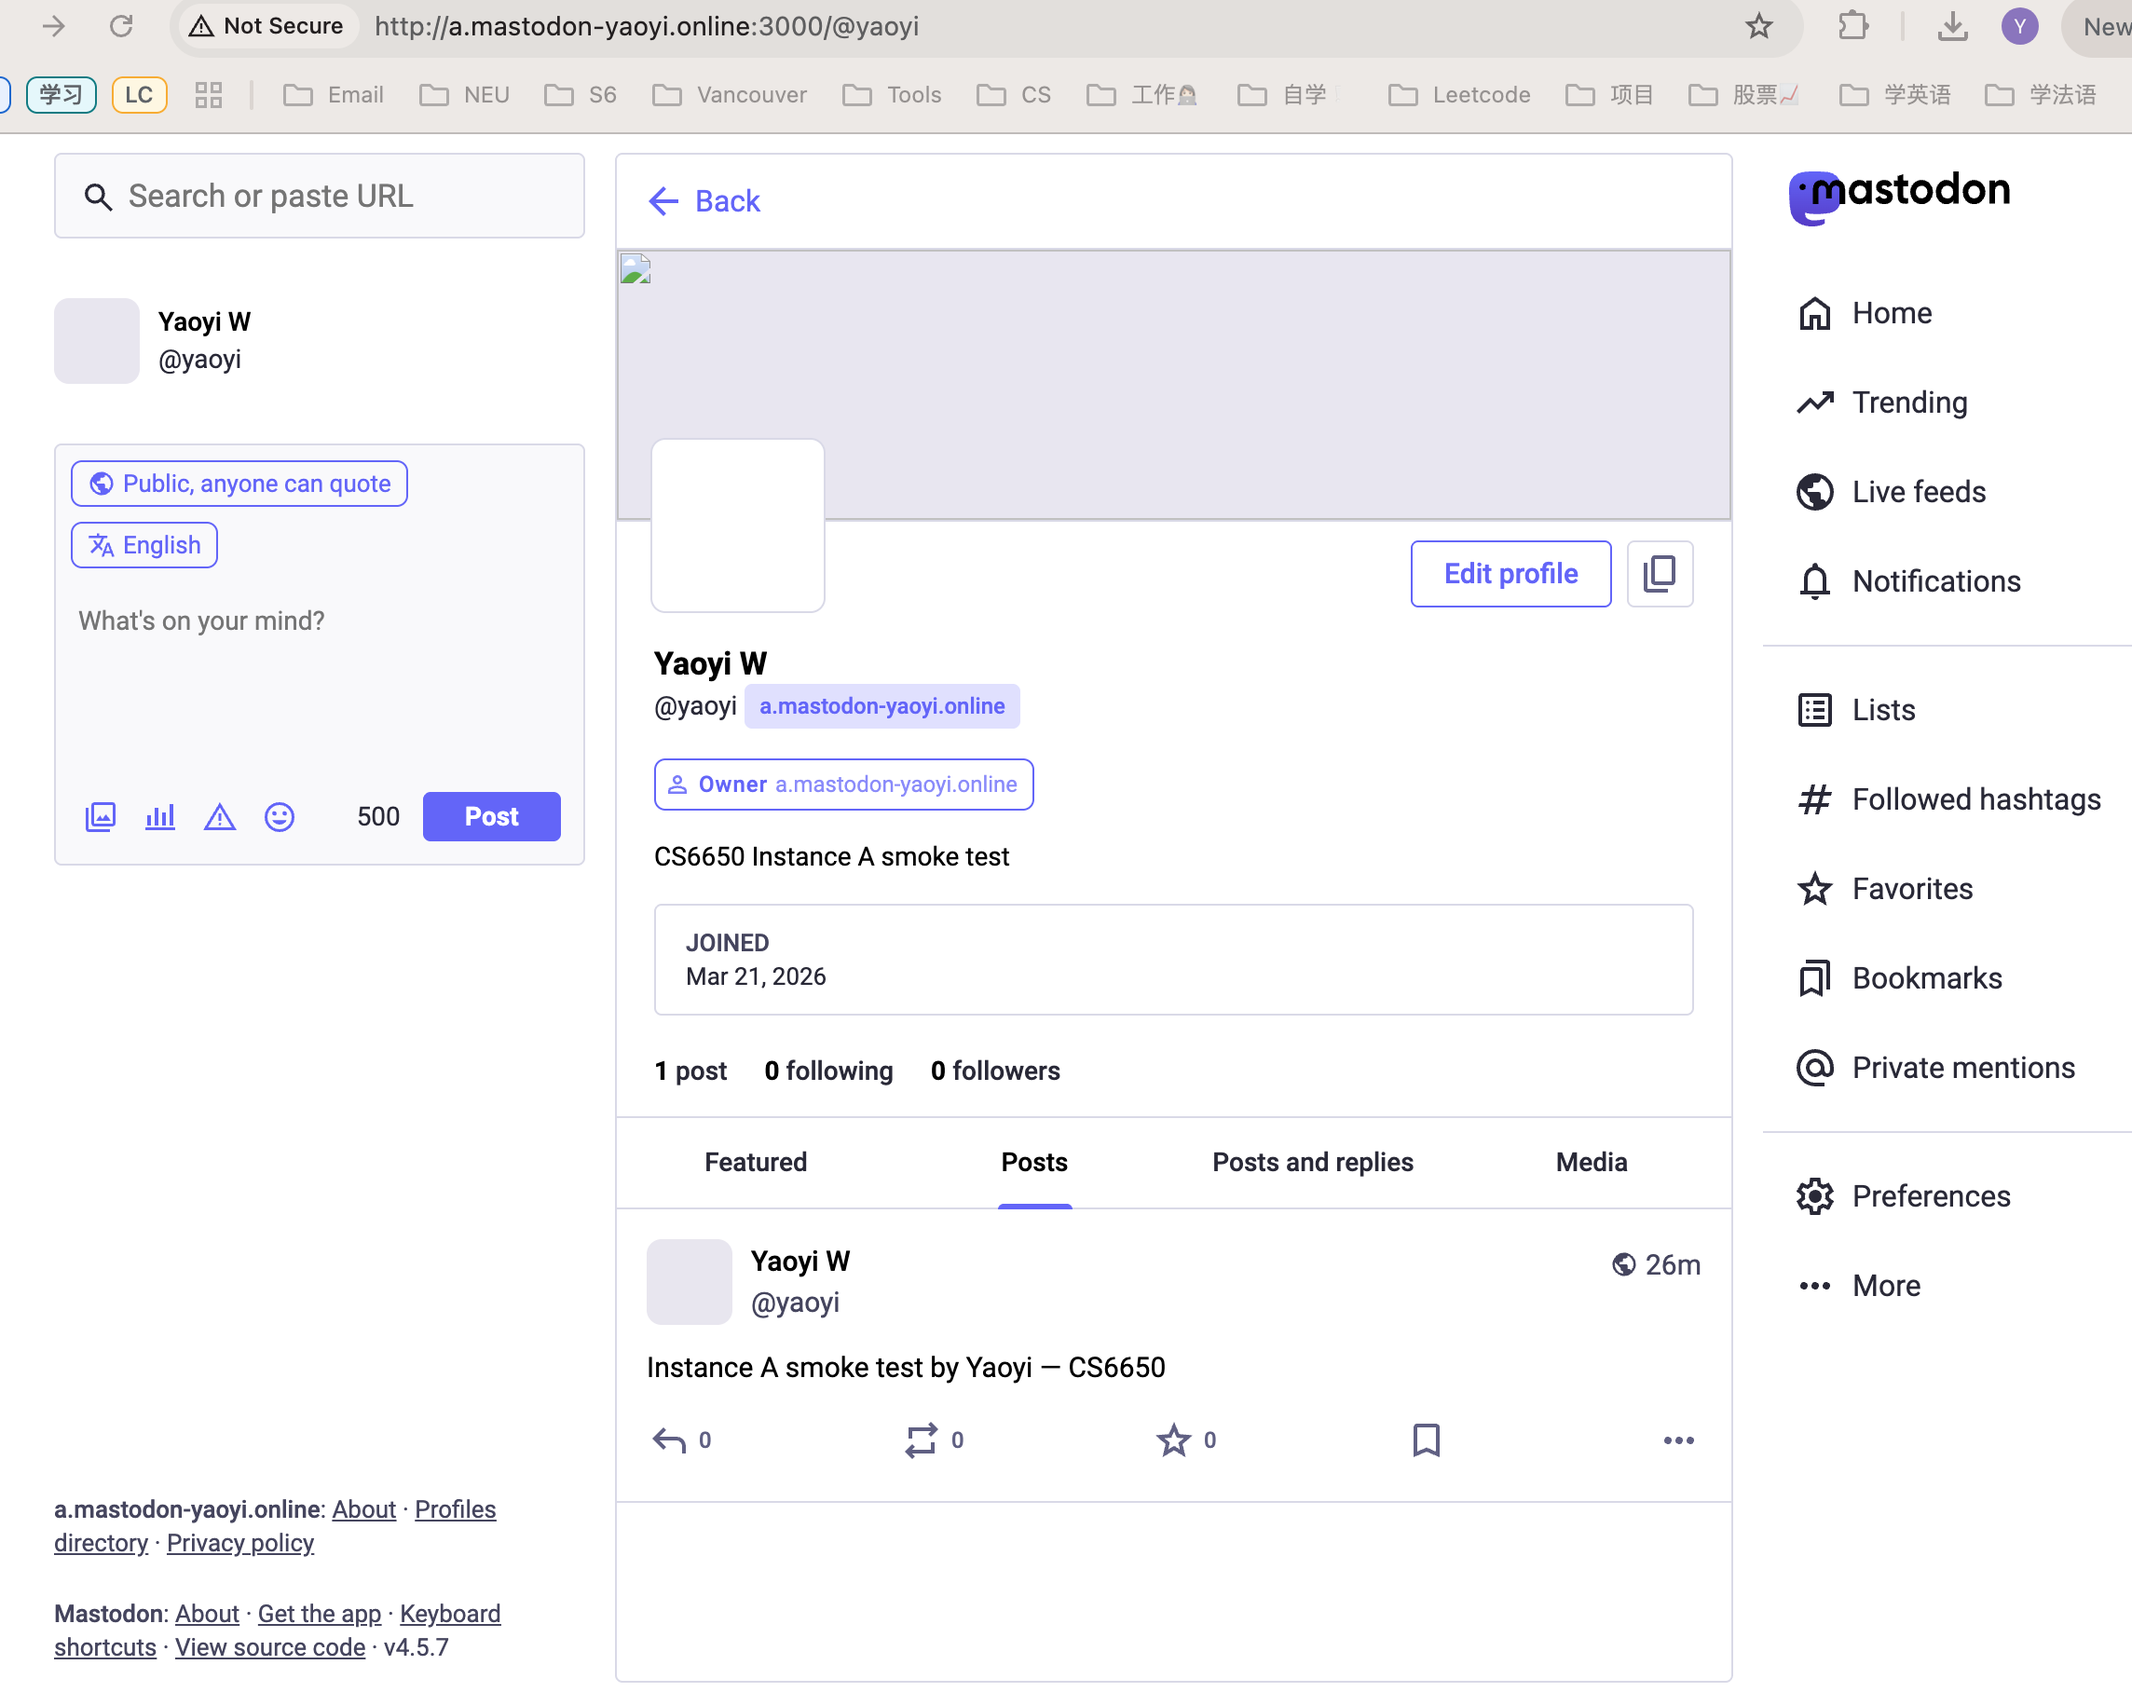
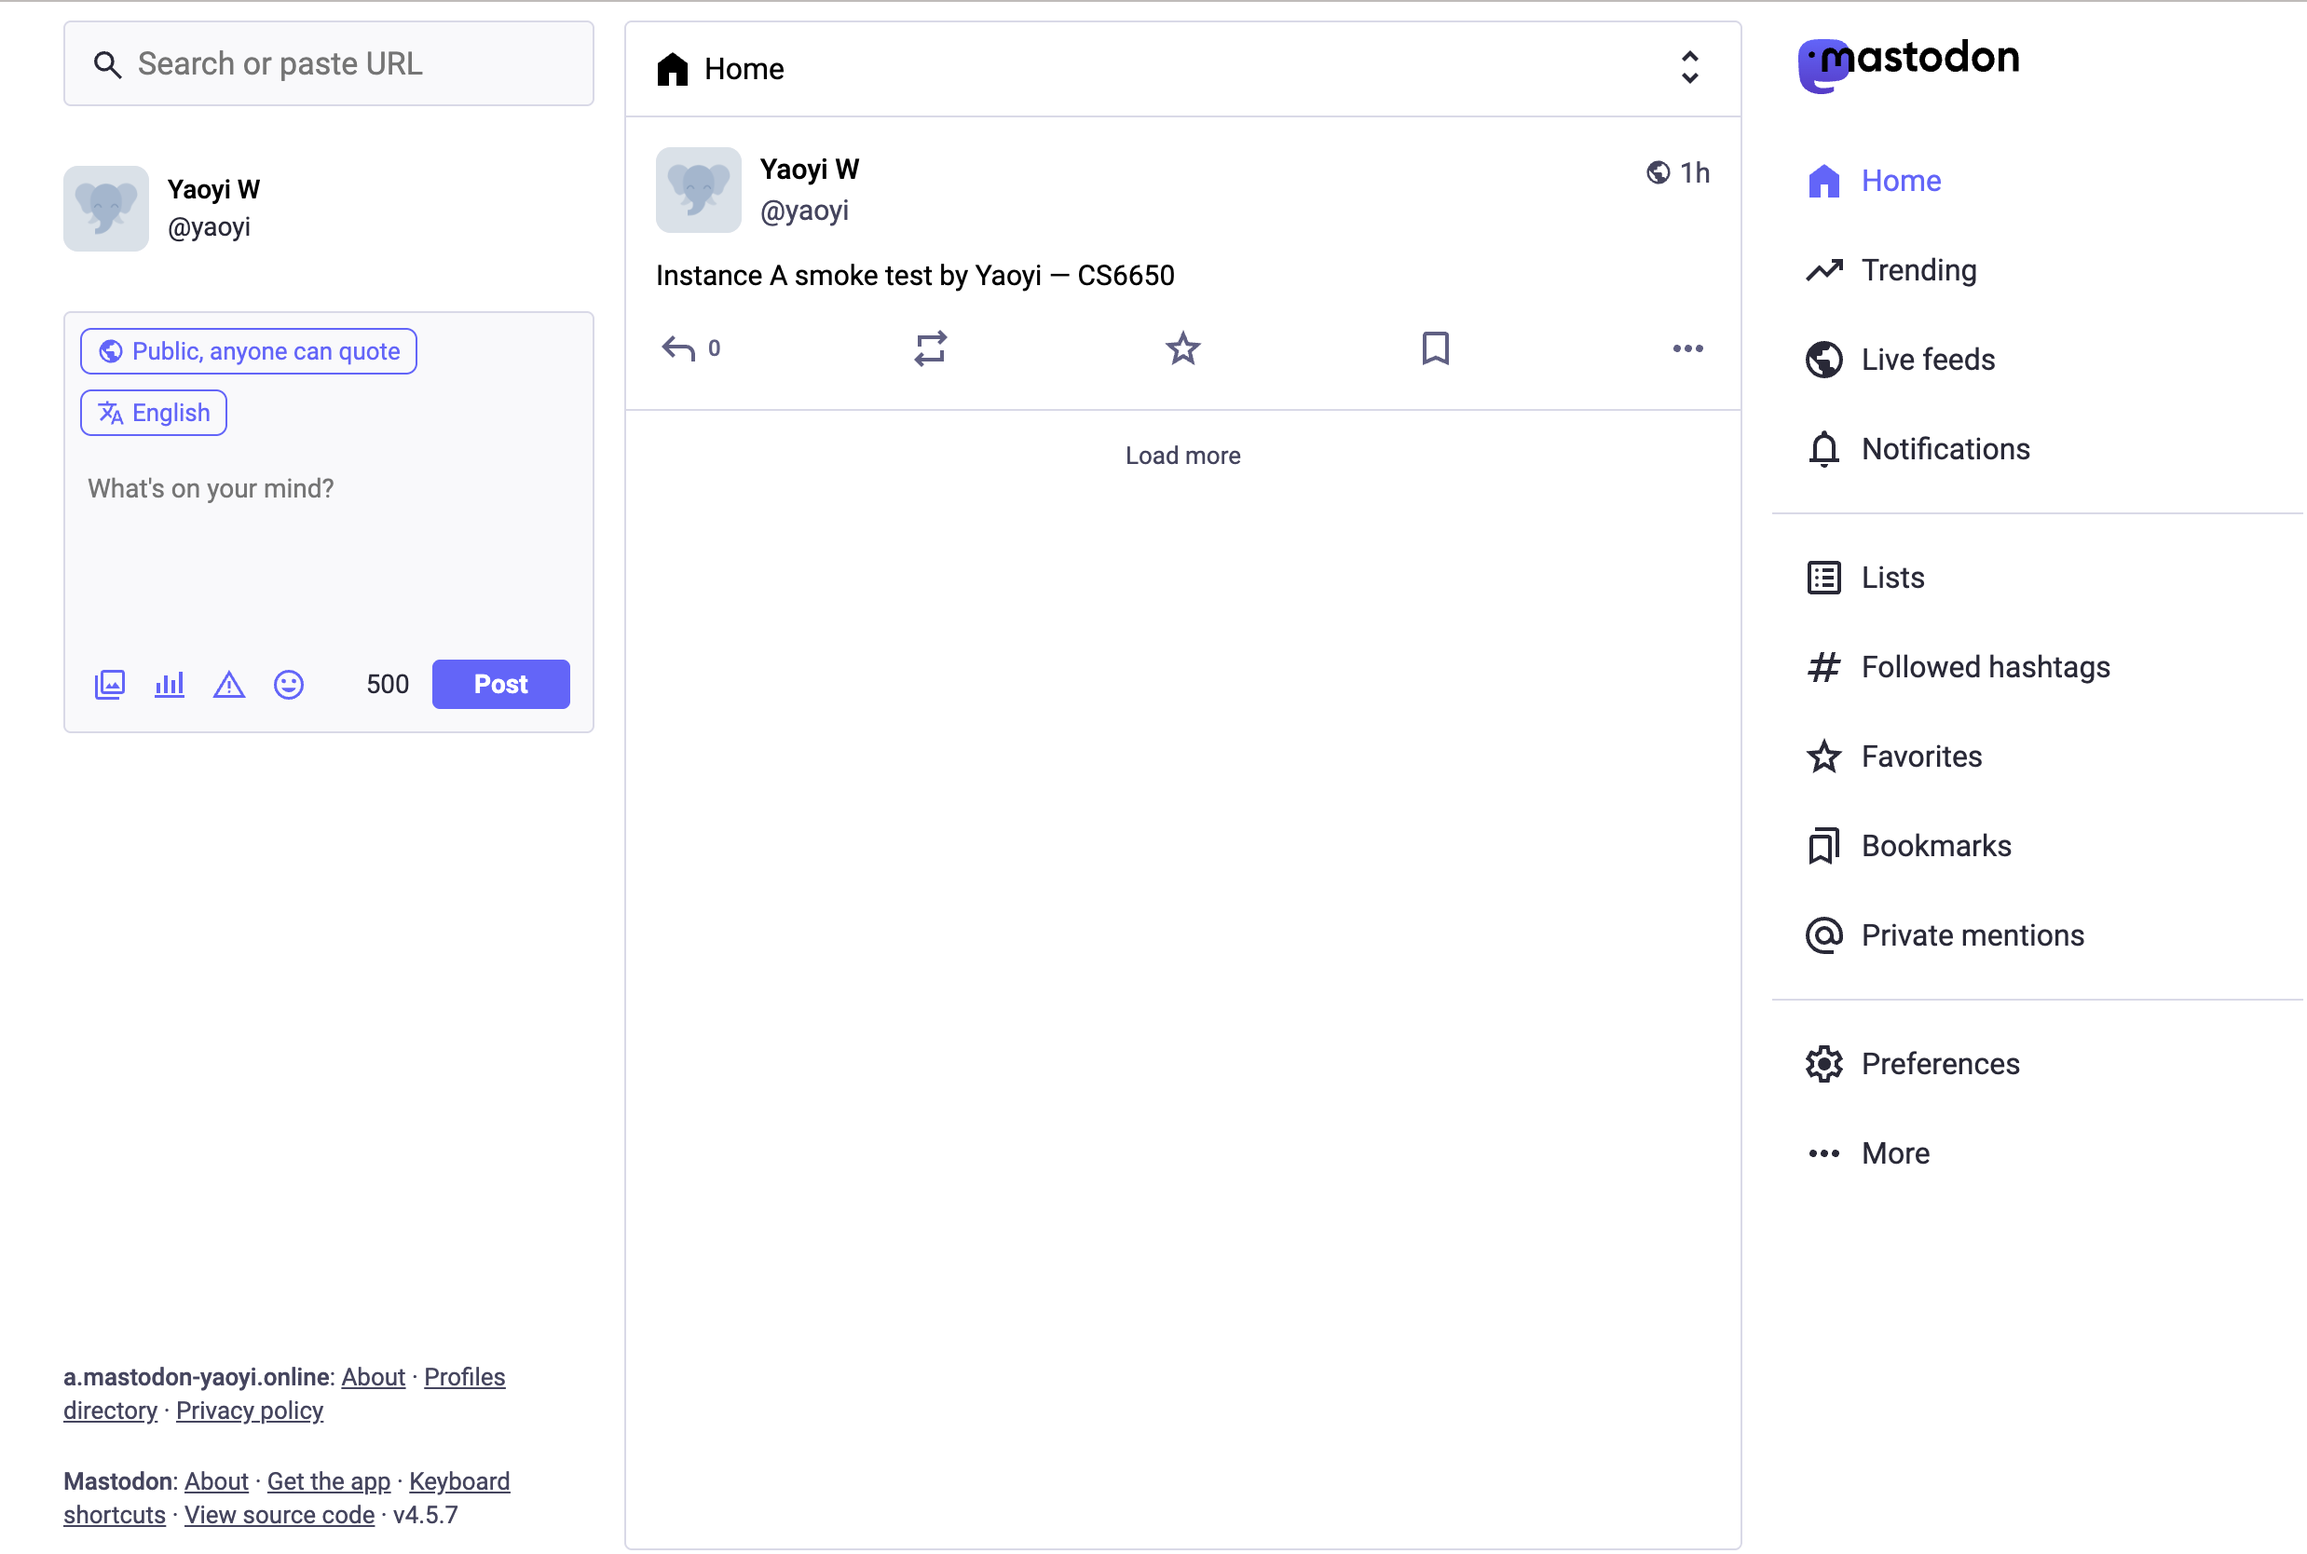
finish results

diff --git a/results/yaoyi/experiment_2_federation.md b/results/yaoyi/experiment_2_federation.md
@@ -1,0 +1,93 @@
+# Experiment 2 — Minimal Federation Validation
+
+## Objective
+Validate whether the Tiny Mastodon instance deployed on EC2 could participate in a minimal cross-instance federation workflow after upgrading the deployment from direct HTTP on port 3000 to an HTTPS + Nginx reverse-proxy setup.
+
+## Environment
+- **Instance A (Yaoyi):** `https://a.mastodon-yaoyi.online`
+- **Instance B (Yehe):** `https://mastodon-yehe.click`
+
+## Background
+Federation did not work in the initial Tiny Mastodon deployment when Instance A was exposed directly over `http://a.mastodon-yaoyi.online:3000`.
+
+At that stage:
+- the instance itself was reachable in a browser,
+- single-instance load testing was possible,
+- but cross-instance account discovery was unreliable.
+
+A likely reason was that the deployment did not yet match a standard Mastodon production setup. Instance A was missing:
+- HTTPS on port 443,
+- a valid SSL certificate,
+- and Nginx-based reverse proxy routing.
+
+To address this, the deployment was upgraded by:
+- installing Nginx and Certbot,
+- obtaining a valid Let's Encrypt certificate,
+- configuring HTTPS for `a.mastodon-yaoyi.online`,
+- and proxying traffic from Nginx to the Mastodon web service running on `127.0.0.1:3000`.
+
+## Federation Validation Steps
+
+### 1. Remote Account Discovery
+After enabling HTTPS, Yaoyi was able to access Yehe’s remote profile page and interact using Mastodon’s federated follow flow.
+
+### 2. Mutual Follow
+A cross-instance mutual follow relationship was successfully established between:
+- `@yaoyi@a.mastodon-yaoyi.online`
+- `@admin@mastodon-yehe.click`
+
+This confirmed that the two instances could discover each other and exchange follow relationships correctly.
+
+### 3. Remote Post Visibility
+A public test post from Yehe’s instance was successfully displayed on Yaoyi’s instance.
+
+This confirmed that:
+- the remote account timeline could be fetched,
+- and at least basic post federation was functioning.
+
+### 4. Remote Like / Favorite Notification
+A favorite interaction from Yehe’s instance was received by Yaoyi’s instance as a notification.
+
+This confirmed that remote interaction events were also propagating across instances.
+
+## Results Summary
+
+| Federation Check | Result |
+|---|---|
+| Remote account discovery | Success |
+| Mutual follow | Success |
+| Remote public post visibility | Success |
+| Remote like / favorite notification | Success |
+
+## Interpretation
+The federation experiment shows that the Tiny Mastodon deployment became federation-capable only after it was upgraded to a more production-like configuration.
+
+The critical change was not application logic, but deployment architecture:
+- direct HTTP on port 3000 was sufficient for local functionality and single-instance load testing,
+- but HTTPS + Nginx reverse proxy were required to make the instance discoverable and usable in a federated workflow.
+
+This result is important because it demonstrates that federation readiness depends not only on Mastodon itself, but also on correct deployment of:
+- domain routing,
+- SSL/TLS,
+- and reverse proxy behavior.
+
+## Limitations
+The federation test involved only two instances and a very small number of users. As a result, it validates federation functionality, but not federation performance at scale. In particular, this setup is insufficient to evaluate fan-out behavior, queue buildup, or delivery latency under broader multi-instance activity.
+
+The experiment confirmed:
+- remote account discovery,
+- mutual follow,
+- post visibility,
+- and favorite notification propagation.
+
+However, the following were not yet systematically evaluated:
+- reply propagation,
+- boost/reblog propagation,
+- end-to-end delivery latency with repeated trials,
+- queue delay under load,
+- and federation behavior under concurrent traffic.
+
+## Conclusion
+A minimal federation workflow was successfully validated between Yaoyi’s Tiny Mastodon EC2 deployment and Yehe’s instance after HTTPS and Nginx reverse proxy were added.
+
+This indicates that the EC2 + Docker Compose deployment path is not only sufficient for single-instance bottleneck experiments, but also capable of supporting basic inter-instance federation when configured with a production-style HTTPS endpoint.
